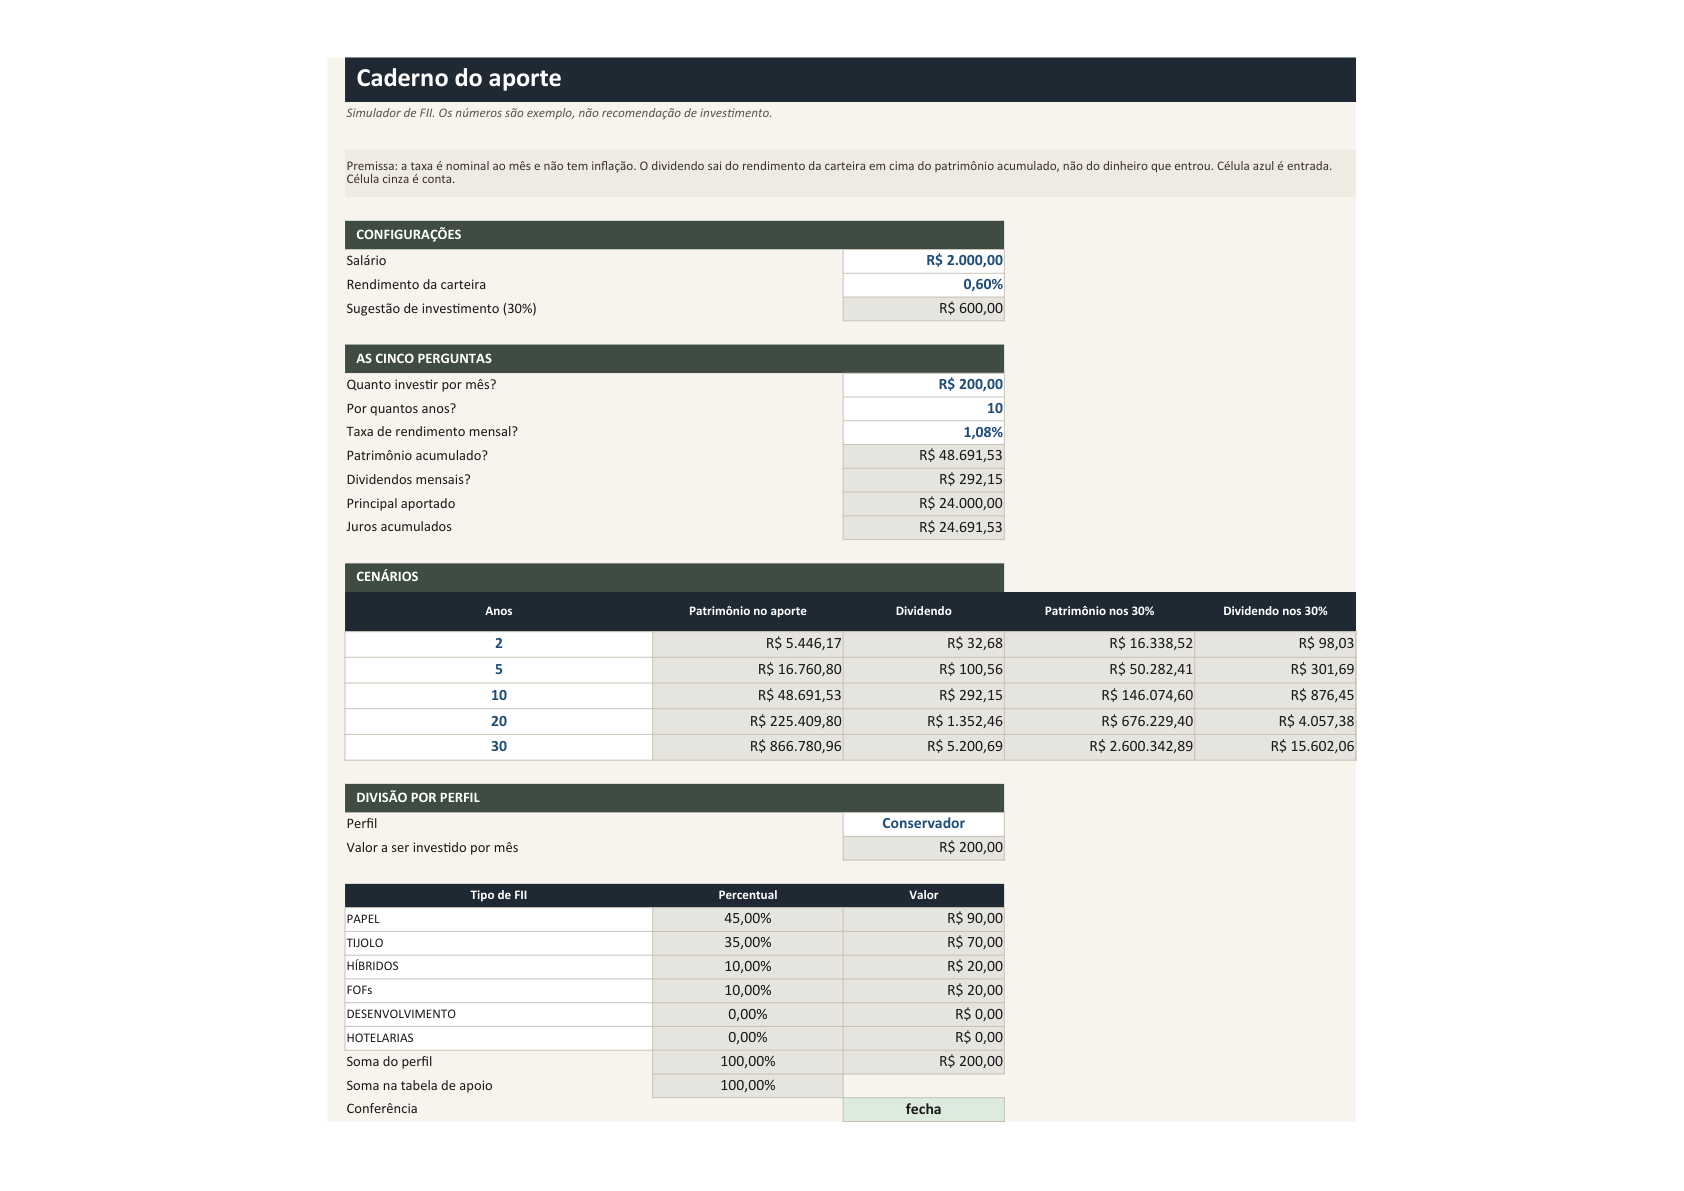
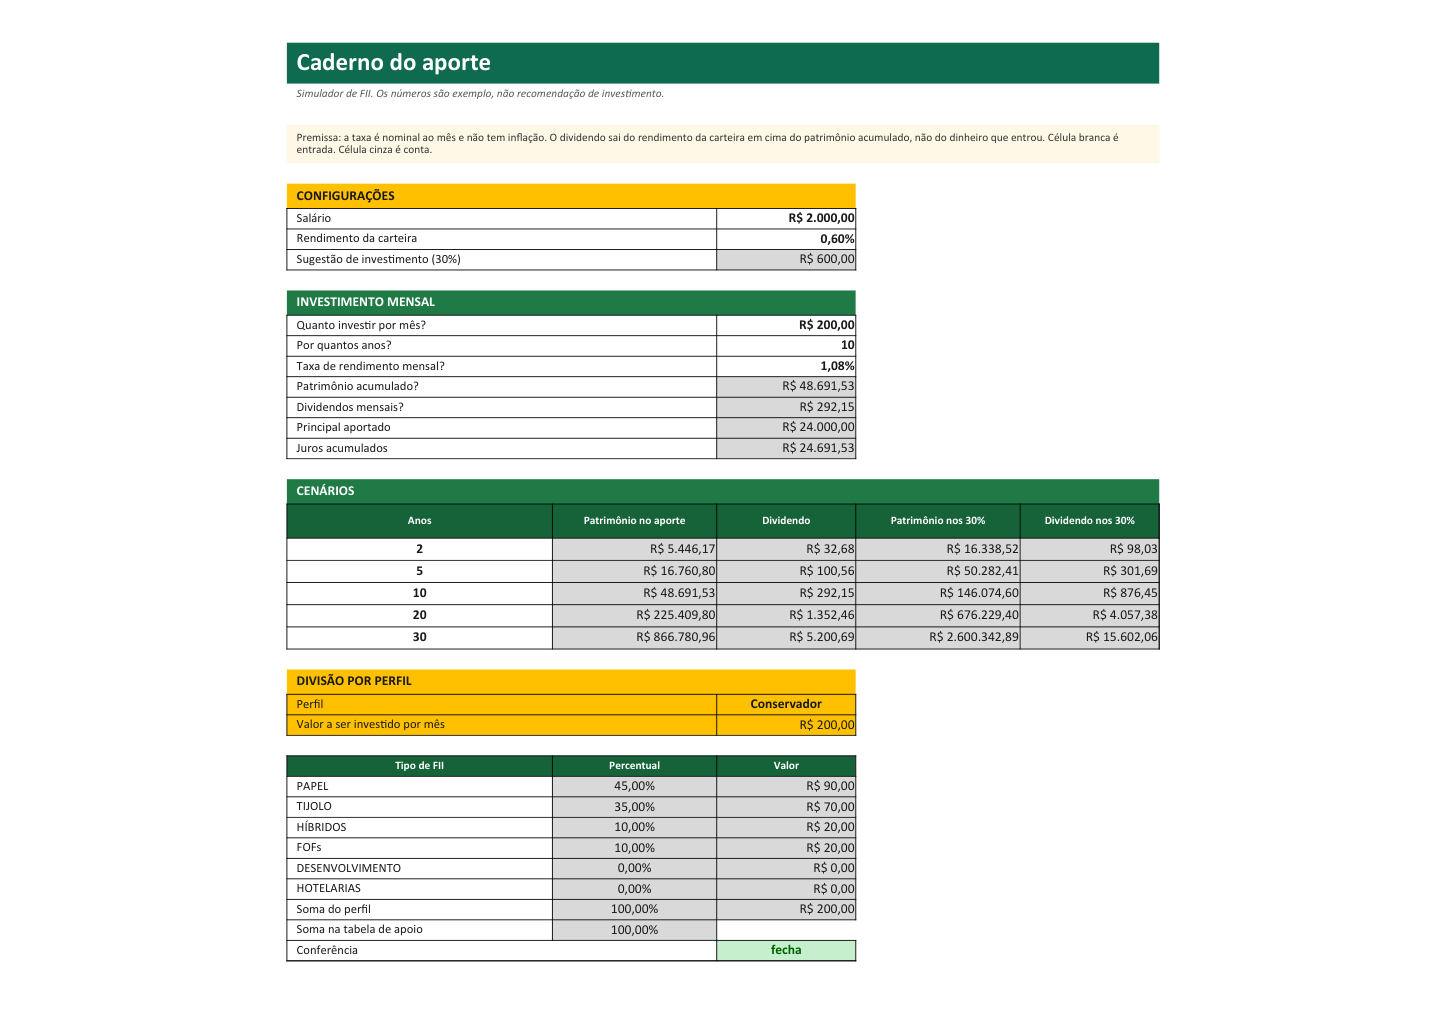
Ajusta o visual no padrao da aula.
Amarelo na configuracao e no perfil, verde no investimento e nos cenarios, cinza no que e conta.

Changed region(s): [[0.1844, 0.0306, 0.8296, 0.9487]]

diff --git a/README.md b/README.md
@@ -6,7 +6,7 @@ Arquivo: `planilha/caderno-fii.xlsx`
 
 ## O que ela responde
 
-Na aba **Caderno**, bloco **As cinco perguntas**:
+Na aba **Caderno**, bloco verde **Investimento mensal**:
 
 1. Quanto investir por mês: célula azul do aporte. No exemplo, R$ 200.
 2. Por quantos anos: no exemplo, 10.
